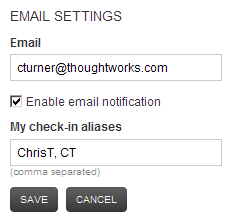
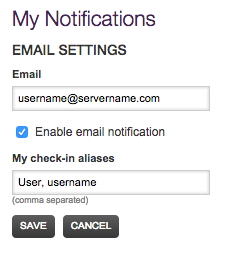
Updated documentation for user notification. * Updated the documentation with new images. * Updated the doc to have documentation for 'any stage'/'any pipeline' notification.

Changed region(s): [[0.0292, 0.2443, 0.9333, 0.9774], [0.0292, 0.0271, 0.6417, 0.1357], [0.0292, 0.1629, 0.525, 0.2172]]

diff --git a/user/configuration/dev_notifications.md b/user/configuration/dev_notifications.md
@@ -6,21 +6,20 @@ Notifications will only work if [Security](dev_authentication.md) is enabled and
 
 ## Example usage
 
-Usage: As a developer, I want to be notified when I break the build.
+**Usage: As a developer, I want to be notified when I break a build on "acceptance" pipeline.**
 
-Click on the **Preferences** tab
+- Click on the **Preferences** tab
 
-![](../resources/images/topnav_preferences.png)
+    ![](../resources/images/topnav_preferences.png)
 
-Click "Edit" and enter my email address, and make sure "Enable email notification" is checked
-
-When I check in, my source control log in will be either "ChrisT" or "CT", so enter both of those into the "My check-in aliases" box
+- Click "Edit" and enter the email address, and make sure "Enable email notification" is checked
+- When I check in, my source control log in will be either "User" or "username", so enter both of those into the "My check-in aliases" box
 
 ![](../resources/images/3_email_and_matcher.png)
 
-Click "Save" to store these values
+- Click "Save" to store these values
 
-Add a filter for the first "dev" stage to notify me when a check-in of mine breaks the build
+- Add a filter for the "twist-plugins" stage of "acceptance" pipeline to notify me when a check-in of mine breaks the build
 
 ![](../resources/images/4_add_filter.png)
 
@@ -30,12 +29,12 @@ You can set up notifications for different events
 
 -   All - all the runs for the stage
 -   Passes - the passed runs for the stage
--   Fails - the stage runs that failed
+-   Fails - the stage run that failed
 -   Breaks - the stage run that broke the build
 -   Fixed - the stage run that fixed the previous failure
 -   Cancelled - the stage run that was cancelled
 
-Illustration
+**Illustrations**
 
 -   Previous build Pass, current build Fail: Event: Break
 -   Previous build Fail, current build Fail: Event: Fail
@@ -44,8 +43,16 @@ Illustration
 
 ![](../resources/images/5_added_filter.png)
 
-I'll be emailed whenever the "twist" stage of "acceptance" pipeline breaks due to my check-in
+> I'll be emailed whenever the "twist-plugins" stage of "acceptance" pipeline breaks due to my check-in
 
-I'll be emailed whenever the "auto-upgrade" stage of "auto-deploy-testing-ubuntu9.10" pipeline fails due to my check-in
+> I'll be emailed whenever the "build" stage of "plugins" pipeline fails due to my check-in
 
-I'll be emailed for all events for the "dev" stage of cruise pipeline
+> I'll be emailed whenever the "upload-installers" stage of "distributions-all" pipeline passes for any check-in
+
+> I'll be emailed on all events for any stage of "regression" pipeline for my check-in
+
+Users can also select to get notifications for a particular (or all) event on any satge of any pipeline.
+
+![](../resources/images/6_added_filter_any_pipeline.png)
+
+> I'll be emailed whenever any stage of any pipeline fails due to my check-in
